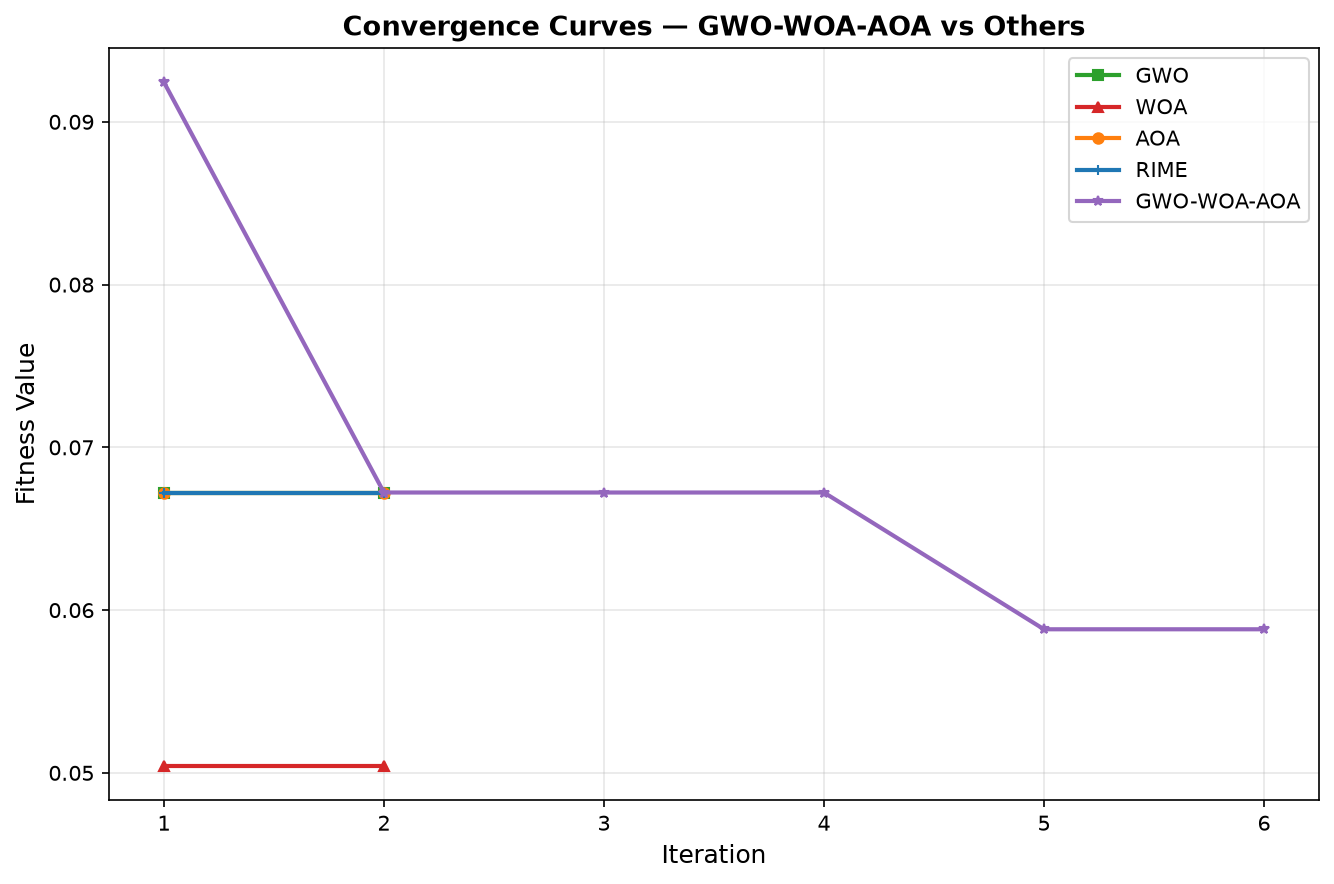
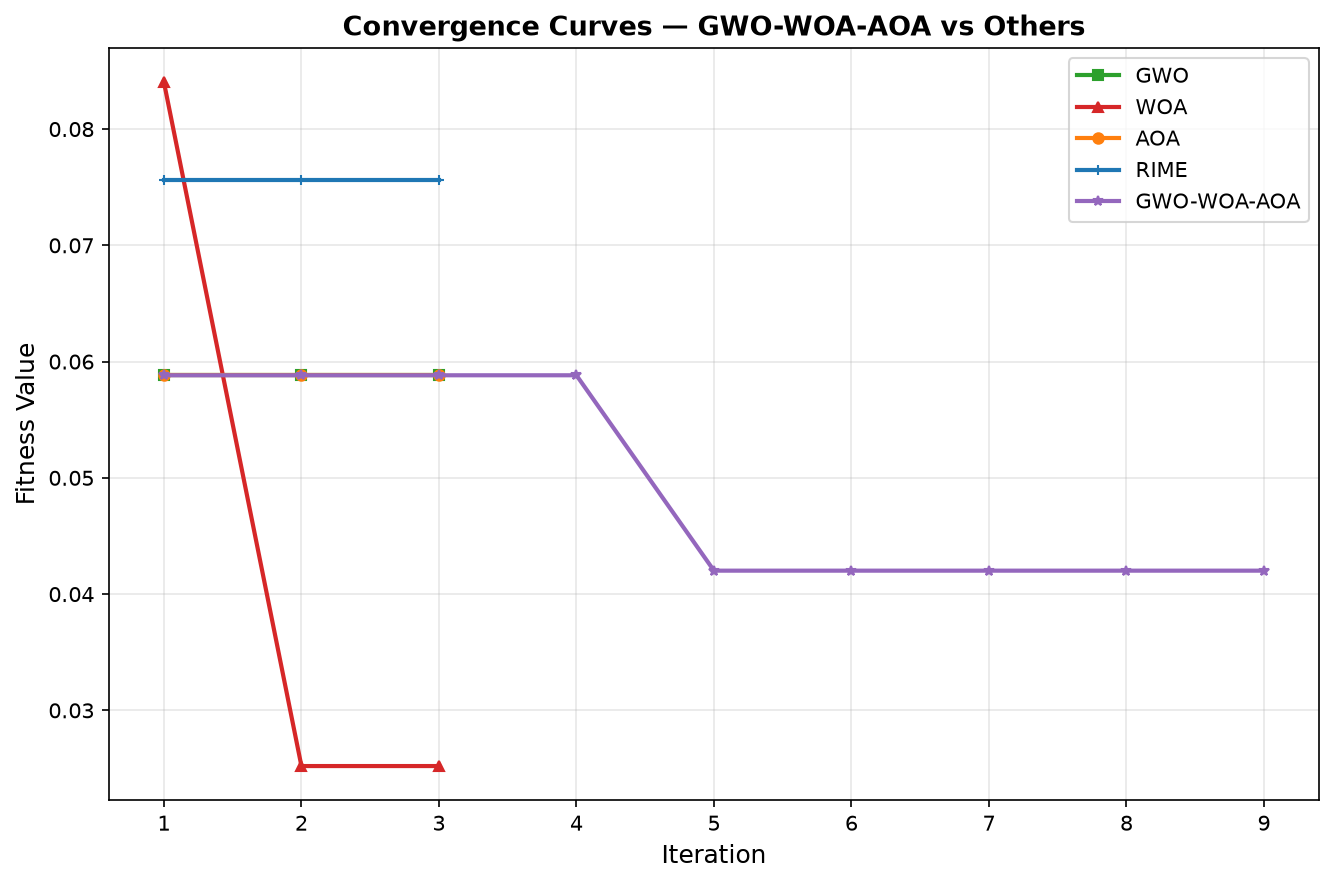
changed max epoch to 50 instead of 100

diff --git a/main.py b/main.py
@@ -28,8 +28,8 @@ import joblib
 # CONFIGURATION
 # Adjust these for quick test vs full run
 # ─────────────────────────────────────────
-POPULATION_SIZE = 3  # full paper: 20
-ITERATIONS      = 2  # full paper: 10 (per algorithm)
+POPULATION_SIZE = 6  # full paper: 20
+ITERATIONS      = 3  # full paper: 10 (per algorithm)
 RUN_LABEL       = "quick run — medium population"
 
 

diff --git a/src/cnn_model.py b/src/cnn_model.py
@@ -31,7 +31,7 @@ OPTIMIZER_OPTIONS = ['adam', 'sgd', 'rmsprop'] # index 0-2
 # Continuous ranges
 DROPOUT_MIN  = 0.1;  DROPOUT_MAX  = 0.5
 LR_MIN       = 0.0001; LR_MAX     = 0.01
-EPOCH_MIN    = 10;   EPOCH_MAX    = 100
+EPOCH_MIN    = 10;   EPOCH_MAX    = 50
 
 # Hyperparameter vector indices
 # x = [filters_idx, kernel_idx, pooling_idx, neurons_idx,
